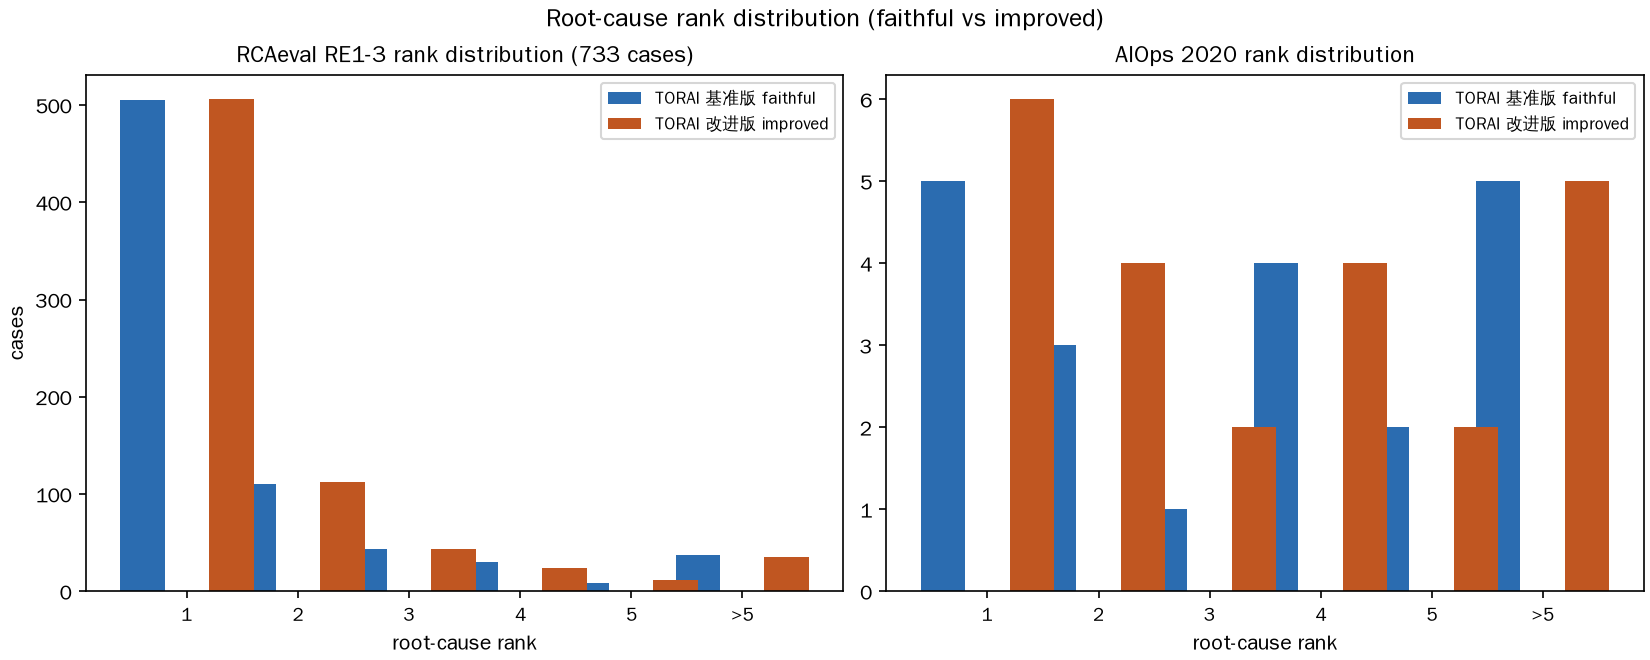
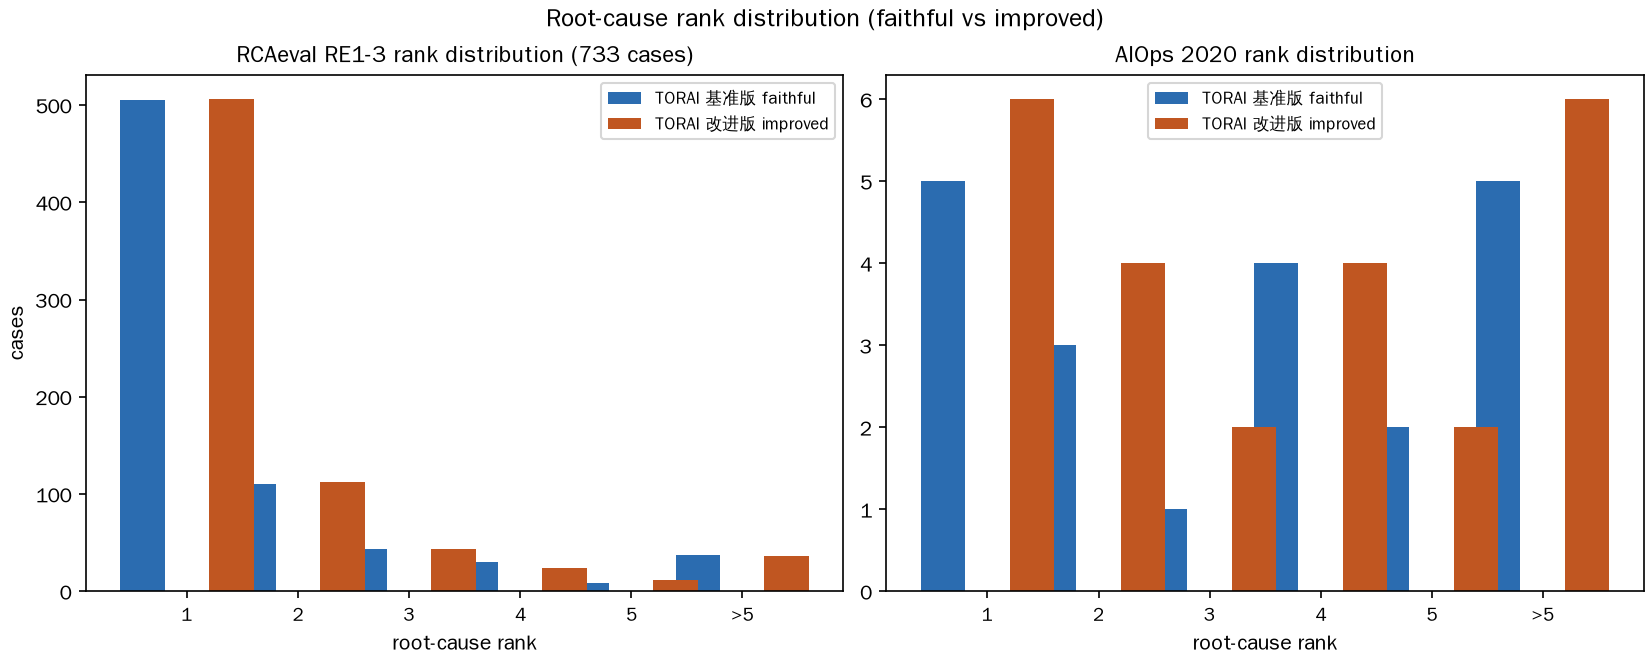
fix(experiments): TORAI RCA rank 分布图将 rank<=0（未进排名）计入 >5 桶

Changed region(s): [[0.68, 0.1212, 1.0, 0.2727]]

diff --git a/experiments/baselines/plot_torai_rca.py b/experiments/baselines/plot_torai_rca.py
@@ -187,6 +187,10 @@ def fig_rankdist(rcaeval: dict, aiops: dict, out: Path):
     fig, axes = plt.subplots(1, 2, figsize=(11, 4.4), constrained_layout=True)
     bins = np.arange(1, 8) - 0.5  # rank 1..6+, last bin = >5
 
+    def clamp(r: int) -> int:
+        # rank <= 0 means root not found in ranking -> treat as >5
+        return 6 if (r <= 0 or r > 5) else r
+
     # RCAeval: rank distribution pooled over RE1-RE3
     ax = axes[0]
     for var, color in COLORS.items():
@@ -194,7 +198,7 @@ def fig_rankdist(rcaeval: dict, aiops: dict, out: Path):
         for suite in ("RE1", "RE2", "RE3"):
             for c in rcaeval[(suite, var)]["cases"].values():
                 if "rank" in c:
-                    ranks.append(min(c["rank"], 6))
+                    ranks.append(clamp(c["rank"]))
         counts, _ = np.histogram(ranks, bins=bins)
         ax.bar(np.arange(1, 7) + (0.4 if var == "improved" else -0.4), counts,
                width=0.4, color=color, label=VARIANT_CN[var])
@@ -208,7 +212,7 @@ def fig_rankdist(rcaeval: dict, aiops: dict, out: Path):
     # AIOps rank distribution
     ax = axes[1]
     for var, color in COLORS.items():
-        ranks = [min(c["rank"], 6) for c in aiops[var]["per_case"].values() if "rank" in c]
+        ranks = [clamp(c["rank"]) for c in aiops[var]["per_case"].values() if "rank" in c]
         counts, _ = np.histogram(ranks, bins=bins)
         ax.bar(np.arange(1, 7) + (0.4 if var == "improved" else -0.4), counts,
                width=0.4, color=color, label=VARIANT_CN[var])
